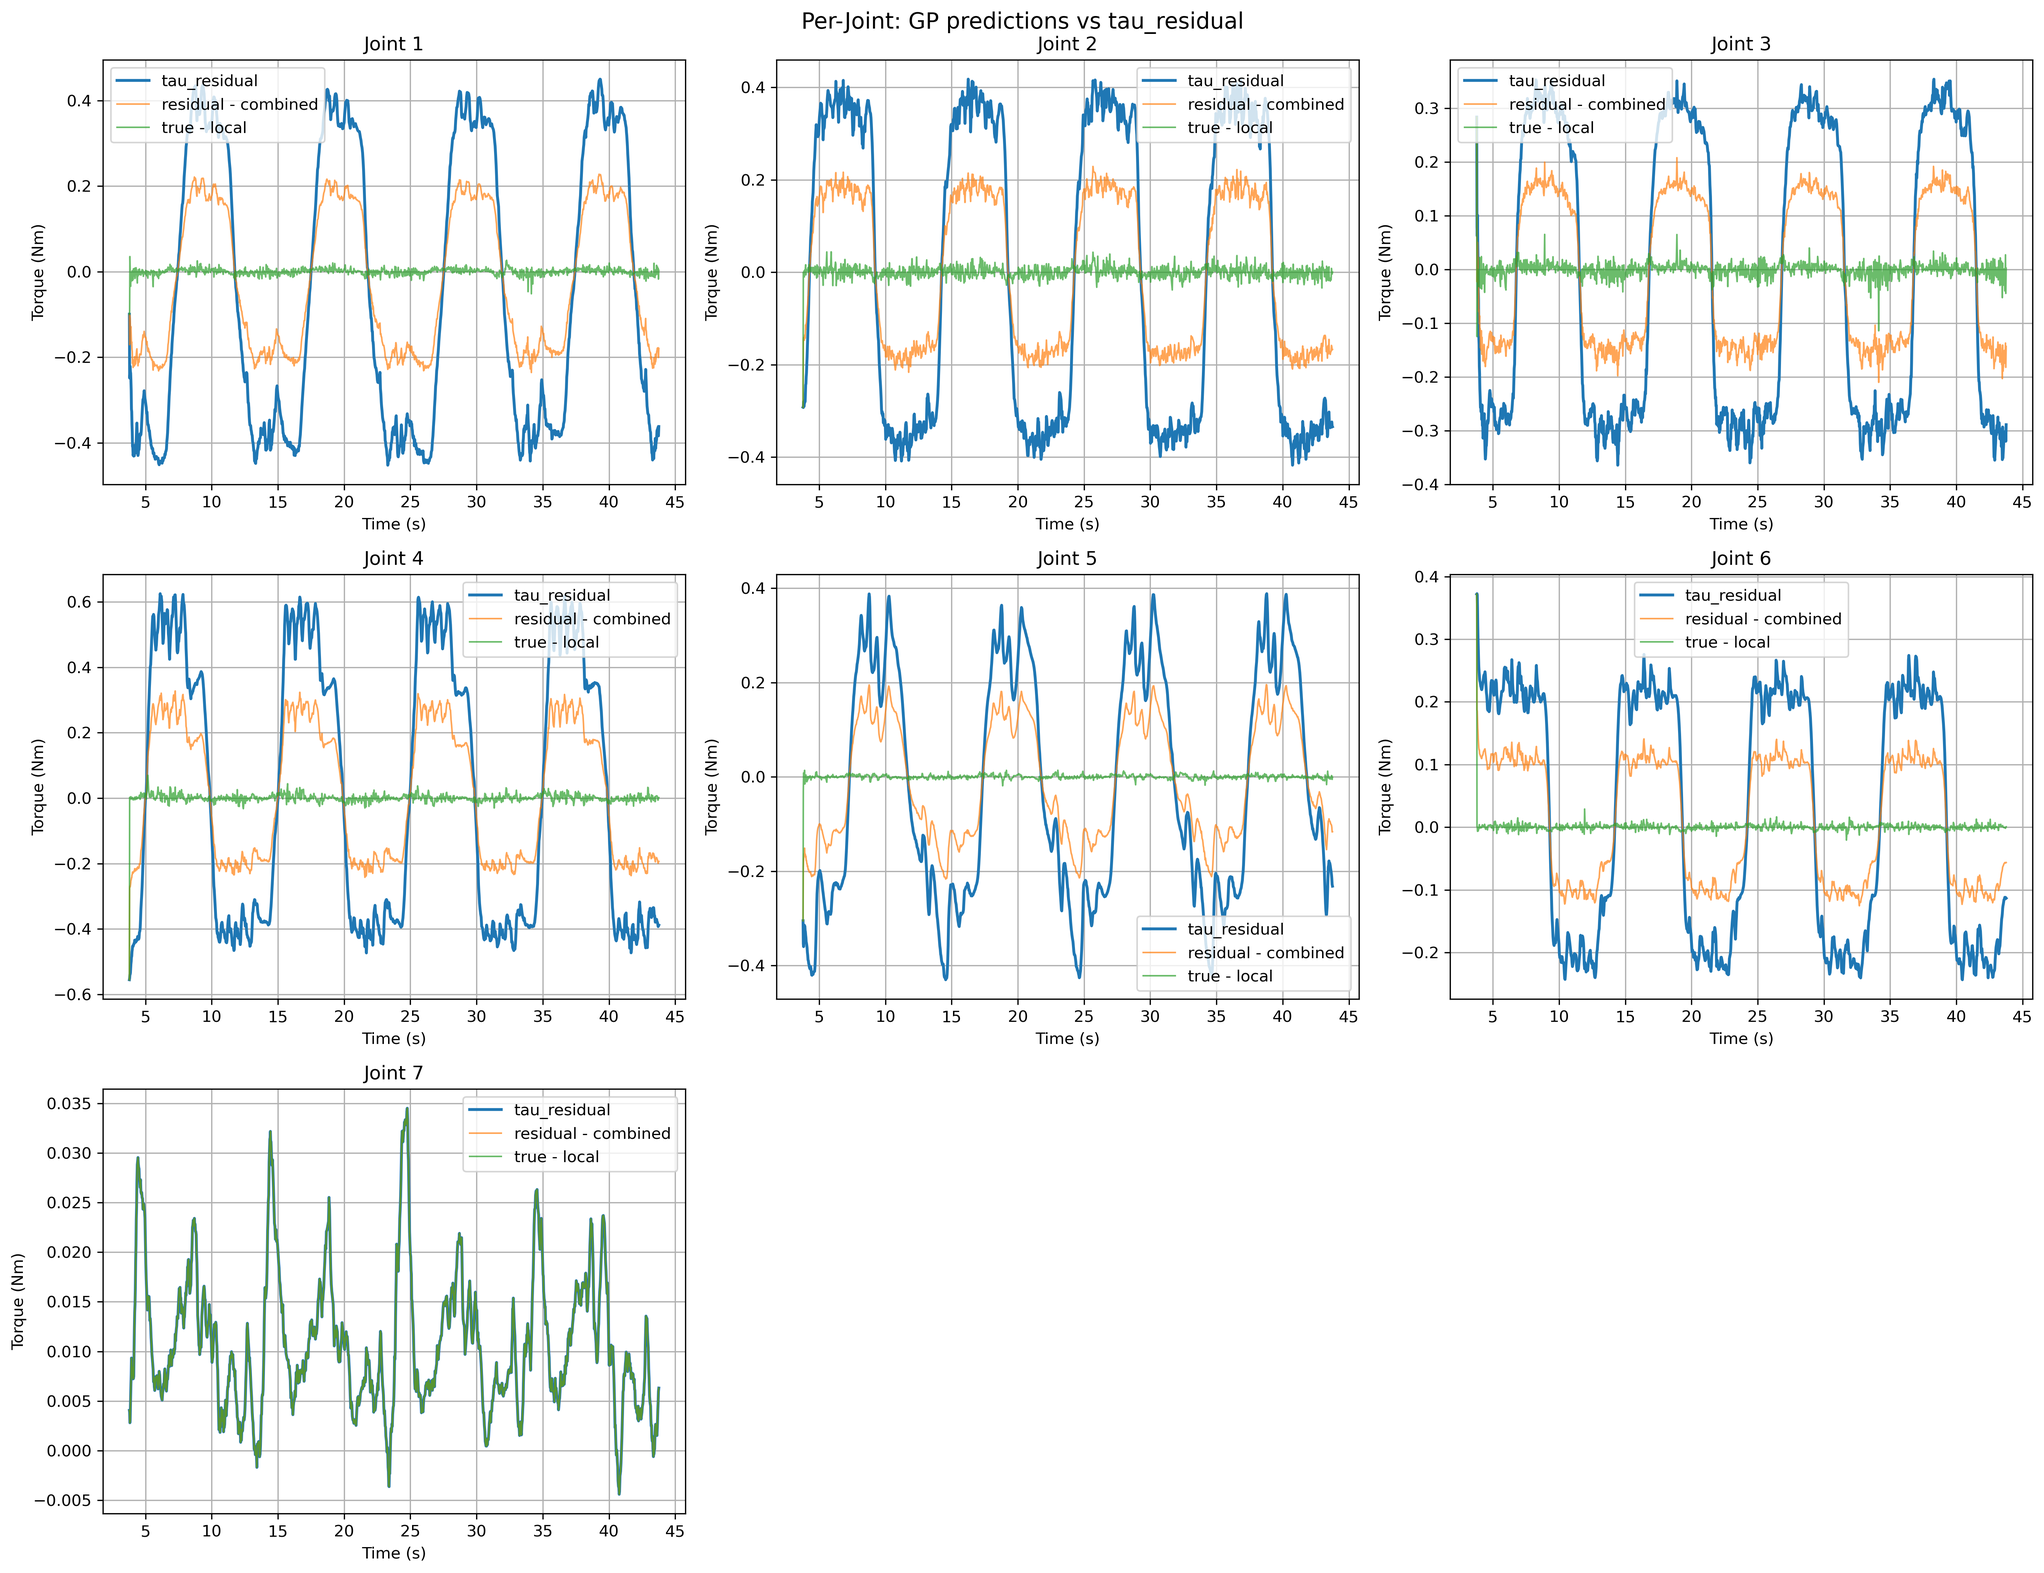
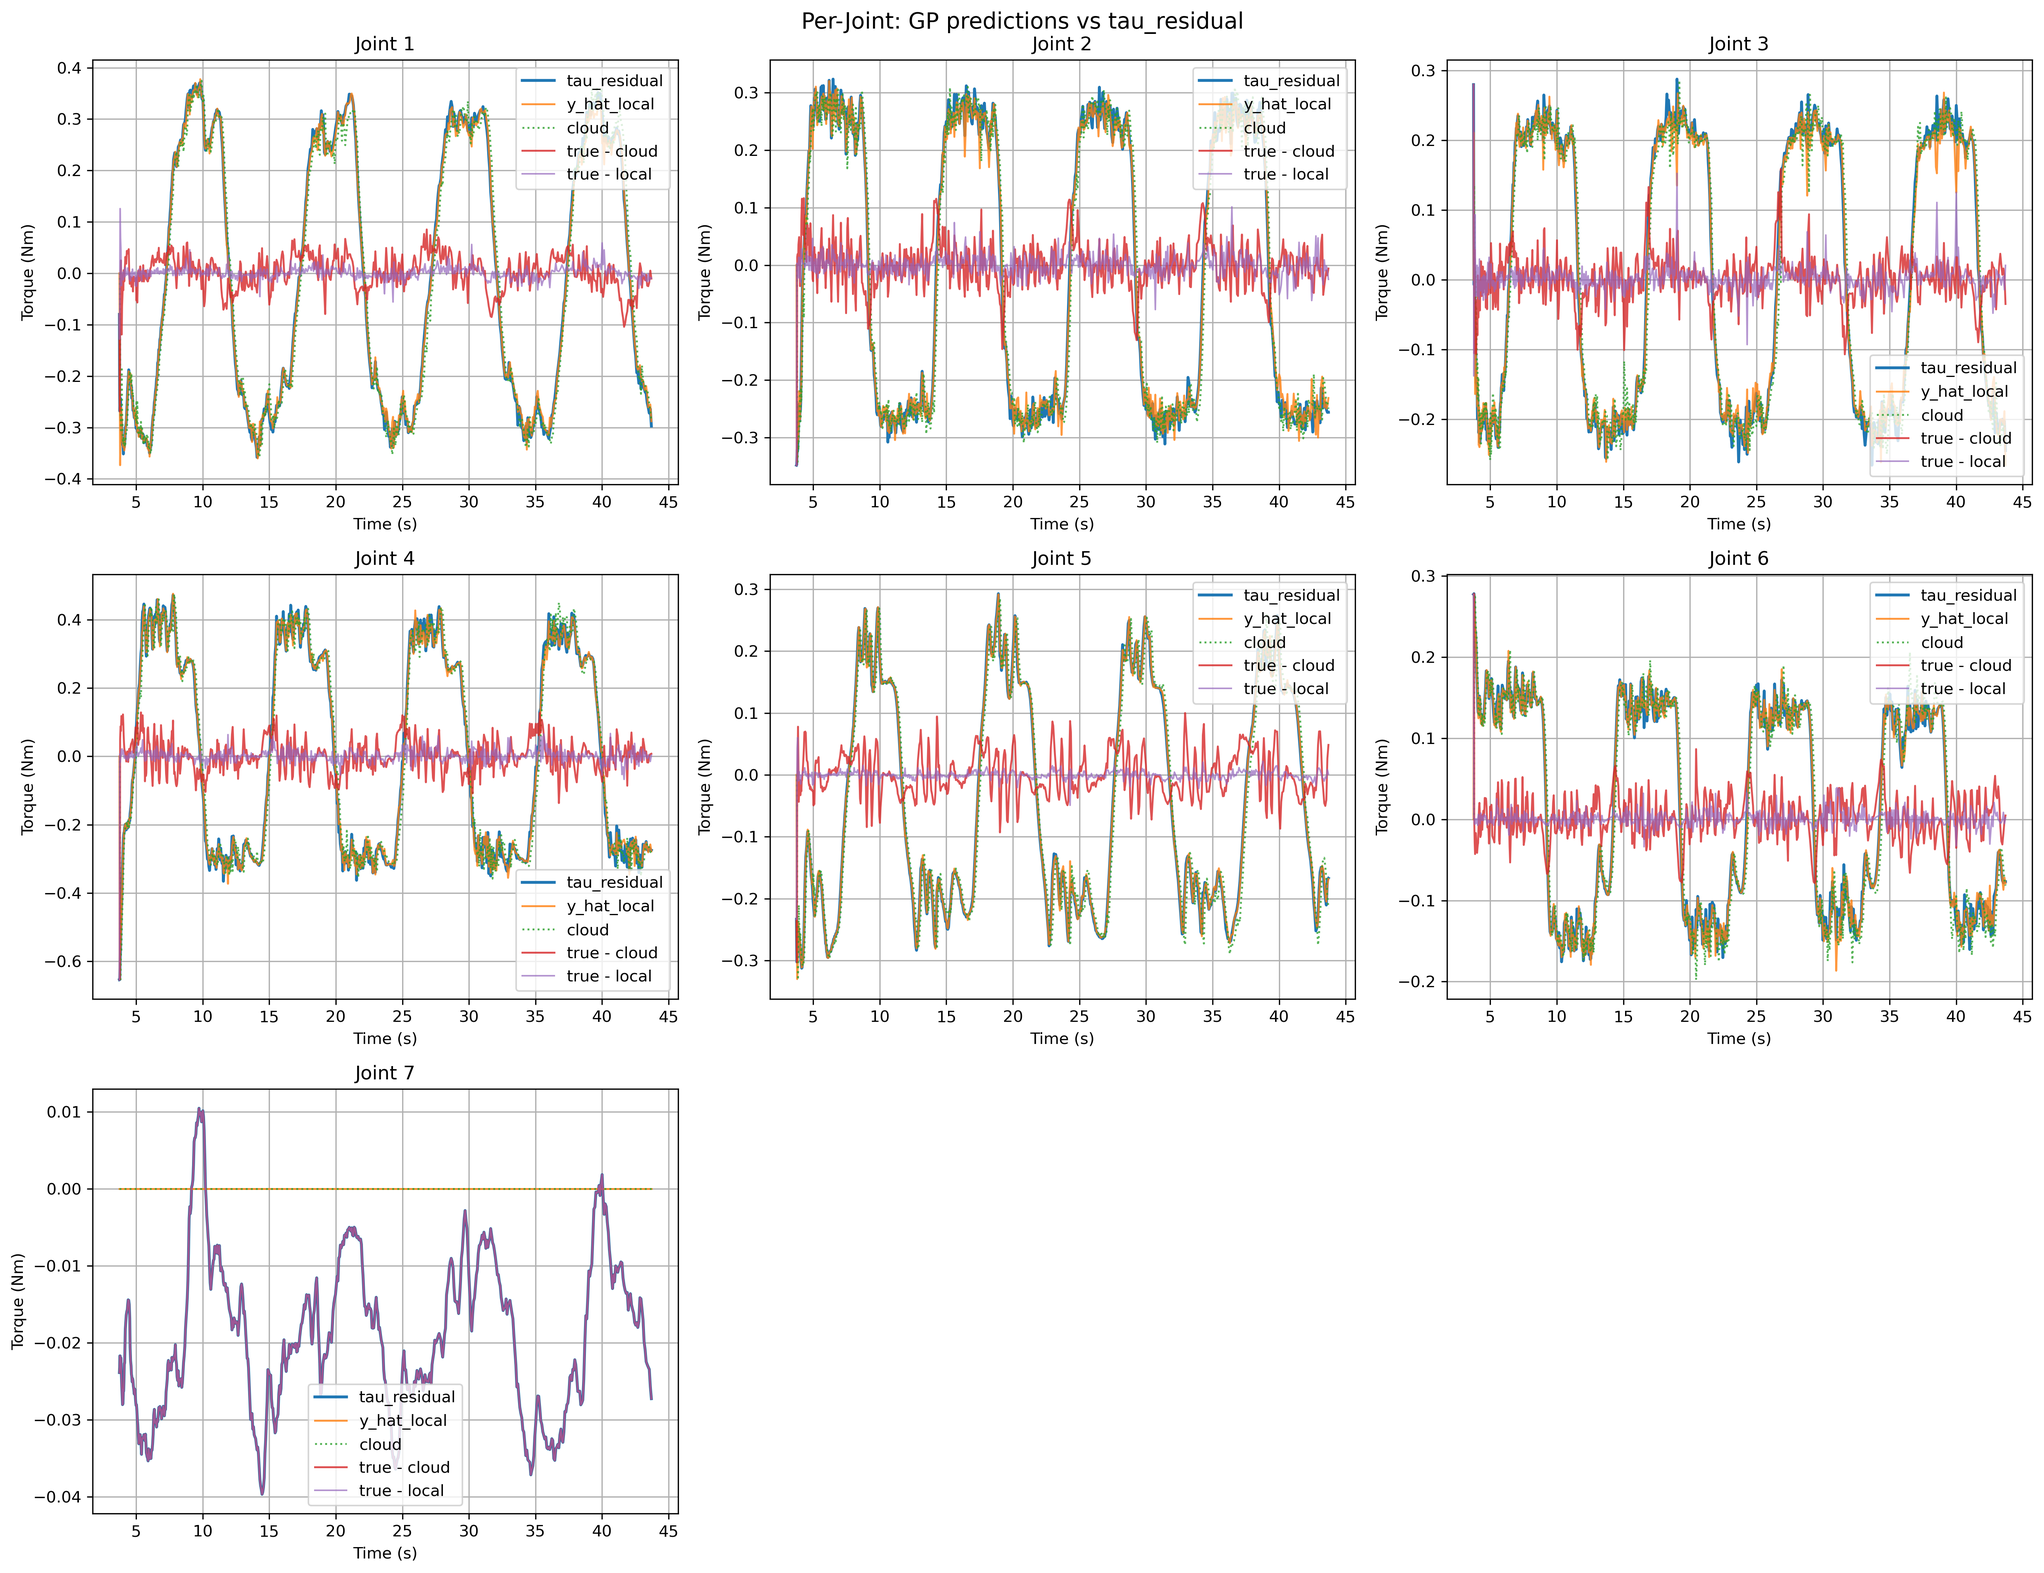
should update cloud gp model with the previous true values but not the calculated future values

Changed region(s): [[0.0, 0.031, 0.9966, 0.6513], [0.0311, 0.6513, 0.3426, 0.9925], [0.8409, 0.6513, 0.8721, 0.6823]]

diff --git a/new_structure/py_controllers/py_controllers/cartesian_impedance.py b/new_structure/py_controllers/py_controllers/cartesian_impedance.py
@@ -135,7 +135,7 @@ class CartesianImpedanceController(Node):
         self.ddq_des_joint = np.zeros(7)
         self.tau_residual = np.zeros(7)
 
-        self.gp_stride = 1      # 每 10 个 state callback 做一次 GP（你可以调）
+        self.gp_stride = 0      # 每 10 个 state callback 做一次 GP（你可以调）
         self.gp_counter = 0
 
         self.y_hat_filtered = np.zeros(7)
@@ -151,7 +151,8 @@ class CartesianImpedanceController(Node):
         self.tau_residual_history = []   # 记录 tau_residual (7,)
 
         # === local GP ===
-        self.gp_models = {}
+        self.gp_models_small = {}
+        self.gp_models_big = {}
         self.gp_ready = False    # 标记本地 GP 是否加载成功
         self.y_hat_local = np.zeros(7)
         self.y_hat_local_history = []
@@ -193,9 +194,11 @@ class CartesianImpedanceController(Node):
 
         #simulated dalay
         self.future_delay = self.declare_parameter(
-            'future_delay', 0 # 默认 60 ms
+            'future_delay', 0.01 # 默认 60 ms
         ).value
-
+        self.delay_steps = 0
+        self.state_delay_steps = 10   # 你想模拟的通信延迟：20个周期
+        self.state_buffer = deque(maxlen=1000)  # 存2秒(1kHz)都够
         self.cloud_delay_steps = 100
         self.y_hat_cloud_buffer = deque(maxlen=self.cloud_delay_steps)
 
@@ -465,7 +468,7 @@ class CartesianImpedanceController(Node):
                 else:
                     y_cloud_delayed = np.zeros(7)
 
-                self.y_hat_cloud = y_cloud_delayed
+                # self.y_hat_cloud = y_cloud_delayed
 
 
                 # 1⃣ 取“最老”的 cloud（≈ t - Δt）
@@ -528,18 +531,34 @@ class CartesianImpedanceController(Node):
             # print("use:",self.use_gp)
             if self.gp_active and self.use_gp:
                 self.gp_counter += 1
-                if self.gp_counter % self.gp_stride == 0:
-                    # 1) 本地 GP 立刻算一次（同步）
-                    self.y_hat_local = self._gp_predict_and_update(
-                        self.q,
-                        dq,
-                        self.ddq_des_joint,
-                        self.tau_residual_filtered,
-                    )
-                    # self.y_hat_local = np.zeros(7)
-                    # print(self.gp_counter)
-                # 2) 云端 GP：发异步请求（同一时刻的 q/dq/ddq/残差）
-                # === CLOUD GP 调用 === 
+                # if self.gp_counter % self.gp_stride == 0:
+                # 1) 本地 GP 立刻算一次（同步）
+                self.y_hat_local = self._gp_predict_and_update(
+                    self.q,
+                    dq,
+                    self.ddq_des_joint,
+                    self.tau_residual_filtered,
+                    self.gp_models_small
+                )
+                self.state_buffer.append({
+                    "q": self.q.copy(),
+                    "dq": dq.copy(),
+                    "ddq": self.ddq_des_joint.copy(),     # 推荐用命令加速度
+                    "tau_res": self.tau_residual_filtered.copy()
+                })
+                
+                # self.y_hat_cloud = self._gp_predict_and_update(
+                #     self.q,
+                #     dq,
+                #     self.ddq_des_joint,
+                #     self.tau_residual_filtered,
+                #     self.gp_models_big
+                # )
+
+                # self.y_hat_local = np.zeros(7)
+                # print(self.gp_counter)
+            # 2) 云端 GP：发异步请求（同一时刻的 q/dq/ddq/残差）
+            # === CLOUD GP 调用 === 
                 if self.gp_client.service_is_ready():
                     req = AsyncGPpredict.Request()
                     # ---- 当前输入 ----
@@ -563,6 +582,32 @@ class CartesianImpedanceController(Node):
                     q_future_main  = q_now + dq_now * delay + 0.5 * ddq_now * delay**2
                     dq_future_main = dq_now + ddq_now * delay
                     ddq_future_main = ddq_now
+
+                    N = self.state_delay_steps
+
+                    if len(self.state_buffer) > N:
+                        s = self.state_buffer[-1 - N]   # ✅ N步前的状态（关键行）
+
+                        q_old   = s["q"]
+                        dq_old  = s["dq"]
+                        ddq_old = s["ddq"]
+                        tau_res_old = s["tau_res"]
+
+                        # 用同一个 delay（秒），把 old 状态推进到它的 future（可选）
+                        delay = float(self.future_delay)   # 例如 0.002s，也可以设成 N*dt
+                        q_future = q_old + dq_old * delay + 0.5 * ddq_old * delay**2
+                        dq_future = dq_old + ddq_old * delay
+                        ddq_future = ddq_old
+
+                        self.y_hat_cloud = self._gp_predict_and_update(
+                            q_future,
+                            dq_future,
+                            ddq_future,
+                            tau_res_old,          # ✅ 更新用旧残差更一致
+                            self.gp_models_big
+                        )
+                    else:
+                        self.y_hat_cloud = np.zeros(7)
 
                     # ============================================================
                     # ✅ 使用 future_traj_service 给出的未来任务空间轨迹
@@ -642,7 +687,7 @@ class CartesianImpedanceController(Node):
                     req.q_future = q_future_main.astype(np.float32).tolist()
                     req.dq_des_joint_future  = dq_future_main.astype(np.float32).tolist()
                     req.ddq_des_joint_future = ddq_future_main.astype(np.float32).tolist()
-
+                    
                     # ---- 多采样 future ----
                     req.n_future_samples = N
                     req.q_future_samples_flat = np.array(q_samples,dtype=np.float32).reshape(-1).tolist()
@@ -650,11 +695,13 @@ class CartesianImpedanceController(Node):
                     req.ddq_future_samples_flat = np.array(ddq_samples, dtype=np.float32).reshape(-1).tolist()
 
                     self.gp_send_seq = self.gp_send_seq+1
+                    print("gp_send:",self.gp_send_seq)
                     req.seq = float(self.gp_send_seq)
 
                     # ⭐⭐⭐ 缺失的关键两行 ⭐⭐⭐
                     future = self.gp_client.call_async(req)
                     future.add_done_callback(self._gp_response_callback)
+
                 else:
                     print("service not ready!!!!!!!!!!!!!!!!!")
 
@@ -725,12 +772,14 @@ class CartesianImpedanceController(Node):
 
             y_cloud = np.array(resp.y_cloud, dtype=float)
             y_mem   = np.array(resp.y_cloud_aggregation, dtype=float)
-            
-            print(resp.seq)
-            if resp.seq == self.gp_send_seq:
-                print(1)
-            else:
-                print(0)
+            print("cloud_response:",resp.seq)
+
+            t_arrive = self.get_clock().now().nanoseconds * 1e-9
+            print("delay_sec:", t_arrive - resp.t_target)
+            # if resp.seq == self.gp_send_seq:
+            #     print(1)
+            # else:
+            #     print(0)
             # self.y_hat_local = self._gp_predict_and_update(
             #             self.q,
             #             self.dq,
@@ -749,7 +798,7 @@ class CartesianImpedanceController(Node):
 
             self.y_hat_cloud_buffer.append({
                 "t": resp.t_target,
-                "y": y_mem
+                "y": y_cloud
             })
 
             # 3⃣ 其他辅助信息
@@ -828,21 +877,21 @@ class CartesianImpedanceController(Node):
         # key = 关节号（1..6），"default" 为所有关节的默认配置
         per_joint_cfg = {
             "default": dict(
-                max_data_per_expert=50,
-                nearest_k=4,
+                max_data_per_expert=25,
+                nearest_k=2,
                 max_experts=4,
                 timescale=0.03,
             ),
             # 举例：如果你想让 6 号关节忘得快一点、专家少一点，可以单独改：
             6: dict(
-                max_data_per_expert=50,
-                nearest_k=4,
+                max_data_per_expert=25,
+                nearest_k=2,
                 max_experts=4,
                 timescale=0.05,
             ),
         }
 
-        self.gp_models = {}
+        self.gp_models_small = {}
         loaded = 0
 
         # ==== 必须改成加载 1..7 ====
@@ -889,7 +938,82 @@ class CartesianImpedanceController(Node):
                         f"[GP] joint{j}: override model params failed: {e}"
                     )
 
-                self.gp_models[j] = {
+                self.gp_models_small[j] = {
+                    "model": model,
+                    "stats": stats,
+                    "x_dim": x_dim
+                }
+
+                loaded += 1
+                self.get_logger().info(f"[GP] 成功加载关节{j}模型, x_dim={x_dim}")
+
+            except Exception as e:
+                self.get_logger().error(f"[GP] fail loading {abs_p}: {e}")
+        
+        per_joint_cfg = {
+            "default": dict(
+                max_data_per_expert=50,
+                nearest_k=4,
+                max_experts=100,
+                timescale=0.03,
+            ),
+            # 举例：如果你想让 6 号关节忘得快一点、专家少一点，可以单独改：
+            6: dict(
+                max_data_per_expert=50,
+                nearest_k=4,
+                max_experts=100,
+                timescale=0.05,
+            ),
+        }
+
+        self.gp_models_big = {}
+        loaded = 0
+
+        # ==== 必须改成加载 1..7 ====
+        for j in range(1, 8):
+            p = os.path.join(dir_path, f"joint{j}_local.pkl")
+            abs_p = os.path.abspath(p)
+            self.get_logger().info(f"[GP] 尝试加载模型: {abs_p}")
+
+            if not os.path.isfile(p):
+                self.get_logger().warn(f"[GP] model file not found: {abs_p}")
+                continue
+
+            try:
+                with open(p, "rb") as f:
+                    pack = pickle.load(f)
+
+                model = pack["model"]
+                stats = pack["stats"]   # (Xm, Xs, Ym, Ys)
+                Xm, Xs, Ym, Ys = stats
+                x_dim = int(len(Xm))    # 自动推断 14 或 21 维
+
+                # ===== 在这里覆盖 SkyGP_rBCM 的参数 =====
+                cfg = per_joint_cfg.get(j, per_joint_cfg["default"])
+                try:
+                    # 只有在模型里确实有这些属性时才改，避免旧版本崩溃
+                    if hasattr(model, "max_data_per_expert"):
+                        model.max_data_per_expert = int(cfg["max_data_per_expert"])
+                    if hasattr(model, "nearest_k"):
+                        model.nearest_k = int(cfg["nearest_k"])
+                    if hasattr(model, "max_experts"):
+                        model.max_experts = int(cfg["max_experts"])
+                    if hasattr(model, "timescale"):
+                        model.timescale = float(cfg["timescale"])
+
+                    self.get_logger().info(
+                        f"[GP] joint{j} loaded: x_dim={x_dim}, "
+                        f"max_data_per_expert={getattr(model, 'max_data_per_expert', 'NA')}, "
+                        f"nearest_k={getattr(model, 'nearest_k', 'NA')}, "
+                        f"max_experts={getattr(model, 'max_experts', 'NA')}, "
+                        f"timescale={getattr(model, 'timescale', 'NA')}"
+                    )
+                except Exception as e:
+                    self.get_logger().warn(
+                        f"[GP] joint{j}: override model params failed: {e}"
+                    )
+
+                self.gp_models_big[j] = {
                     "model": model,
                     "stats": stats,
                     "x_dim": x_dim
@@ -904,7 +1028,7 @@ class CartesianImpedanceController(Node):
         self.gp_ready = (loaded > 0)
         self.get_logger().info(f"[GP] 共加载 {loaded} 个模型，ready={self.gp_ready}")
 
-    def _gp_predict_and_update(self, q, dq_des_joint, ddq_des_joint, tau_residual):
+    def _gp_predict_and_update(self, q, dq_des_joint, ddq_des_joint, tau_residual, models):
         """
         本地 GP：高维输入版本（14维 or 21维）
         每个关节都使用相同的 x_full = concat([q, dq, ddq])
@@ -929,7 +1053,7 @@ class CartesianImpedanceController(Node):
         # ==================================================
         for j in range(1, 7):
 
-            pack = self.gp_models.get(j)
+            pack = models.get(j)
             if pack is None:
                 continue
 

diff --git a/plot_data.py b/plot_data.py
@@ -318,16 +318,16 @@ def plot_data_from_csv(csv_filename):
             #     ax.plot(time_history, yh_c, '--', linewidth=1.5, label='y_hat_combined')
 
             # 画 local
-            # if YH_local is not None:
-            #     yh_l = YH_local[:, j]
-            #     ax.plot(time_history, yh_l, '-', linewidth=1.2, alpha=0.8, label='y_hat_local')
+            if YH_local is not None:
+                yh_l = YH_local[:, j]
+                ax.plot(time_history, yh_l, '-', linewidth=1.2, alpha=0.8, label='y_hat_local')
 
             # # 画 cloud
-            # if YH_cloud is not None:
-            #     yh_cl = YH_cloud[:, j]
-            #     ax.plot(time_history, yh_cl, ':', linewidth=1.2, alpha=0.8, label='cloud')
-            #     rem = tr - yh_cl
-            #     ax.plot(time_history, rem, linewidth=1.2, alpha=0.8, label='true - cloud')
+            if YH_cloud is not None:
+                yh_cl = YH_cloud[:, j]
+                ax.plot(time_history, yh_cl, ':', linewidth=1.2, alpha=0.8, label='cloud')
+                rem = tr - yh_cl
+                ax.plot(time_history, rem, linewidth=1.2, alpha=0.8, label='true - cloud')
 
             # if YH_mem is not None:
             #     yh_mem = YH_mem[:, j]
@@ -336,9 +336,9 @@ def plot_data_from_csv(csv_filename):
             #     ax.plot(time_history, rem, linewidth=1.2, alpha=0.8, label='true - history')
 
             # 画剩余误差：残差 - combined（如果有）
-            if YH_comb is not None:
-                rem = tr - YH_comb[:, j]
-                ax.plot(time_history, rem, linewidth=1.0, alpha=0.7, label='residual - combined')
+            # if YH_comb is not None:
+            #     rem = tr - YH_comb[:, j]
+            #     ax.plot(time_history, rem, linewidth=1.0, alpha=0.7, label='residual - combined')
 
             if YH_comb is not None:
                 rem = tr - YH_local[:, j]
